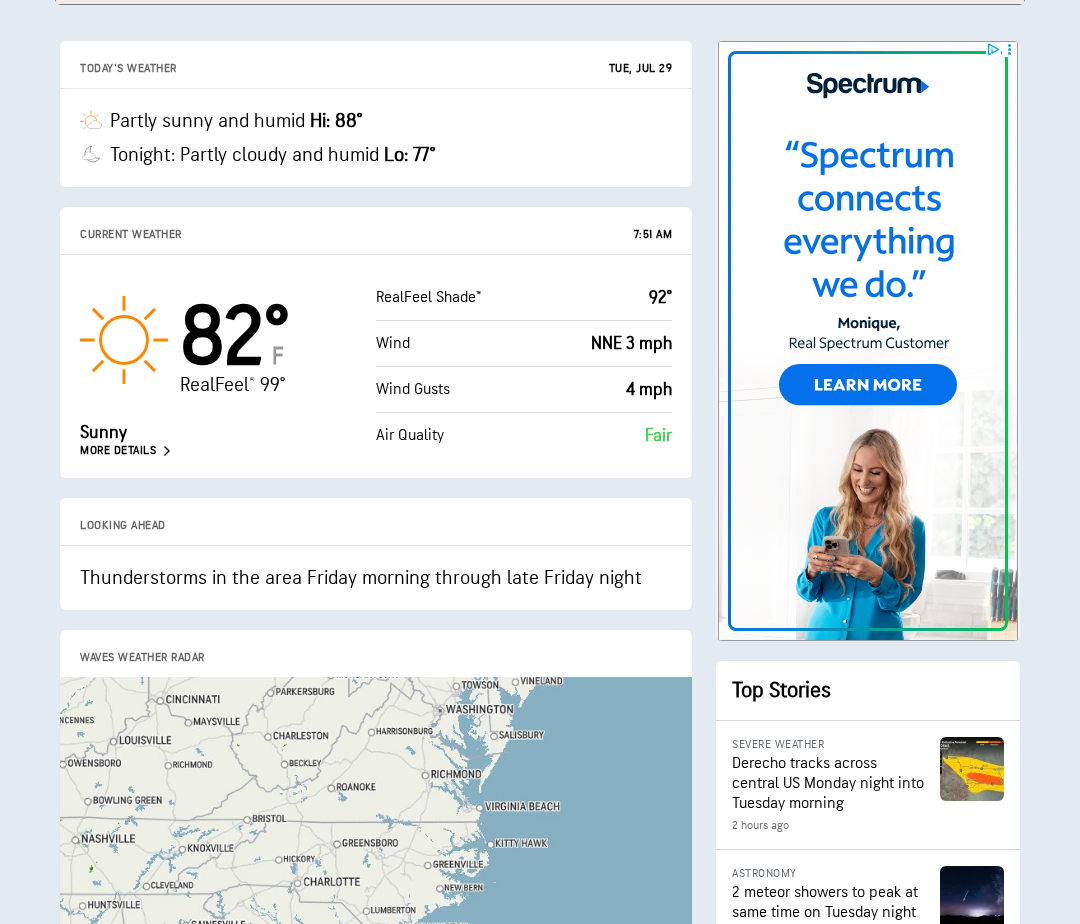
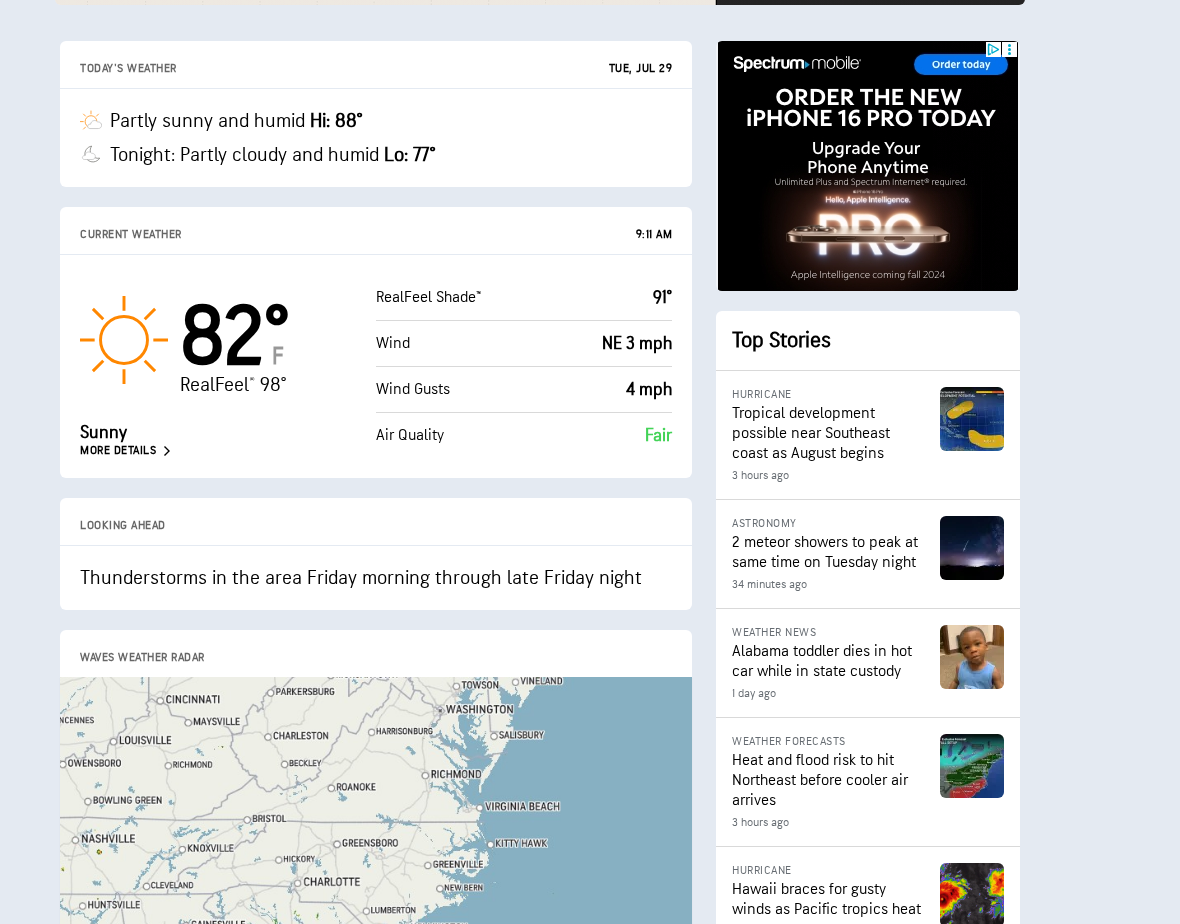
screen res and position for tests, and no more in deploy.

diff --git a/docs/wa/pw/captain.spec.js b/docs/wa/pw/captain.spec.js
@@ -18,7 +18,17 @@ test('capture captain', async ({ page }) => {
     window.scrollTo(0, 455); // Scroll down y pixels
   });
   // await page.waitForTimeout(5000); // pauses for 3 second
-  await page.screenshot({ path: '/tmp/wa/captain.png' });
+  //await page.screenshot({ path: '/tmp/wa/captain.png' });
+  await page.screenshot({
+    path: '/tmp/wa/captain.png',
+    clip: {
+     x: 100,       // horizontal offset from top-left
+     y: 170,       // vertical offset from top-left
+     width: 1180,   // width of the screenshot
+     height: 1024   // height of the screenshot
+  }
+});
+
 
 });
 

diff --git a/docs/wa/pw/accuweather.spec.js b/docs/wa/pw/accuweather.spec.js
@@ -35,7 +35,17 @@ await page.setExtraHTTPHeaders({
     window.scrollTo(0, 300); // Scroll down y pixels
   });
   await page.waitForTimeout(5000); // pauses for 3 second
-  await page.screenshot({ path: '/tmp/wa/accuweather.png' });
+  //await page.screenshot({ path: '/tmp/wa/accuweather.png' });
+  await page.screenshot({
+    path: '/tmp/wa/accuweather.png',
+    clip: {
+     x: 100,       // horizontal offset from top-left
+     y: 100,       // vertical offset from top-left
+     width: 1920,   // width of the screenshot
+     height: 1080   // height of the screenshot
+  }
+});
+
 
 });
 

diff --git a/docs/wa/pw/tides.spec.js b/docs/wa/pw/tides.spec.js
@@ -18,7 +18,17 @@ test('capture tide', async ({ page }) => {
     window.scrollTo(0, 375); // Scroll down y pixels
   });
   // await page.waitForTimeout(5000); // pauses for 3 second
-  await page.screenshot({ path: '/tmp/wa/tides.png' });
+  // await page.screenshot({ path: '/tmp/wa/tides.png' });
+  await page.screenshot({
+    path: '/tmp/wa/tides.png',
+    clip: {
+     x: 0,       // horizontal offset from top-left
+     y: 150,       // vertical offset from top-left
+     width: 980,   // width of the screenshot
+     height: 770   // height of the screenshot
+  }
+});
+
 
 });
 
